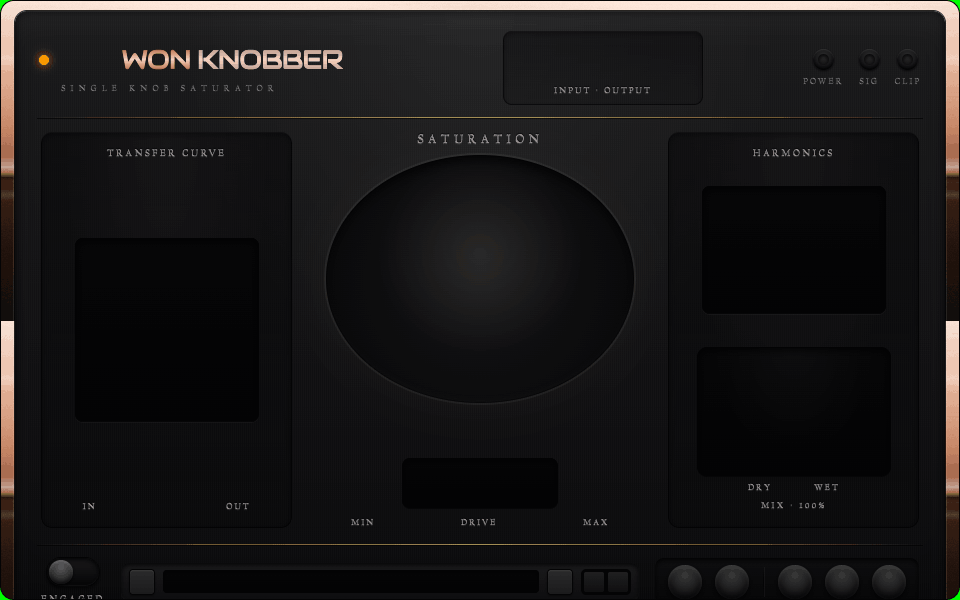
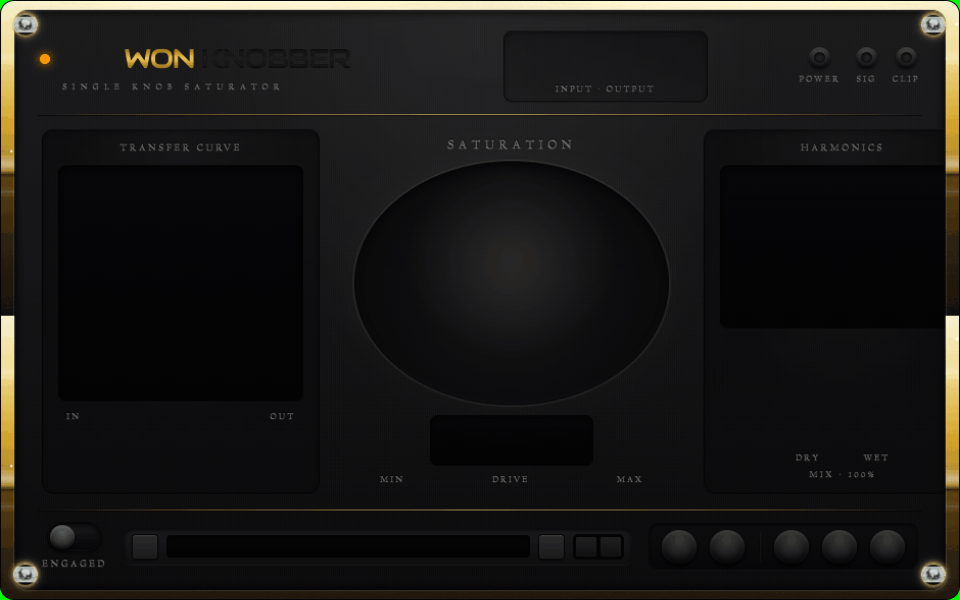
front-parity: richplate re-bake + seated control recesses (#57)
* design: richplate faceplate re-bake (960x600, seated recess bays)

Replaces the flatter plate with the Design/Grok-lane re-bake that carries
deeper machined recesses for the transfer-curve, hero-knob, harmonics, and
footer transport wells — the "seated, not painted-on" doctrine baked into
the plate itself.

* fix(gui): self-drawn recessed well behind TransferCurve + HarmonicBars

Both scopes were pure transparent overlays (only grid/diagonal/curve and amber
bars respectively), relying on a baked recess in the faceplate PNG. In the build
they floated "painted on" the flat plate. Each paint() now draws a recessed well
first (footer-bay material recipe: ~9px rounded rect, vertical 0.44->0.20 black
gradient floor, soft inset top-shadow band, 1px 0.62 black inner stroke, 1px
0.05 white top-lip highlight), then the existing content unchanged on top. No
component geometry, bounds, or anchors changed.

* fix(gui): seat footer transport row in one continuous machined bay

The baked AU/VST3 footer read as loose widgets on a flat plate: the
rocker, preset LCD, A/B, and util buttons each sat in their own little
recess (or none), so the row had nothing unifying it like the rear panel.

Add drawFooterBay() — a single rounded recessed trough spanning the whole
transport row (place(25,519,910,74)), painted before the three footer
draw* routines so every control reads as seated INSIDE one channel.
Material: 10px(scaled) radius, vertical rgba(0,0,0,.44->.20) body, 1px
[…]

diff --git a/Source/gui/FaceplateView.cpp b/Source/gui/FaceplateView.cpp
@@ -94,6 +94,9 @@ void FaceplateView::paint(juce::Graphics& g)
 
     // Phase 2b overlays for preset strip (engraved LED name + chevrons + A/B) and transport tray.
     // Drawn after chassis so text/buttons sit in the photoreal footer recesses.
+    // The footer bay is painted FIRST so the row's controls (and the lit rocker drawn later in
+    // paintOverChildren) all read as seated inside one continuous machined trough.
+    drawFooterBay(g);
     drawPresetStrip(g);
     drawTransportTray(g);
 
@@ -147,6 +150,14 @@ void FaceplateView::resized()
     // exports/faceplate-pro-anchors.json per PHASE2B_DESIGN_SPEC.md §3.
     presetStripBounds = place(121, 537, 518, 38);
     transportBounds = place(655, 531, 264, 48);
+
+    // One continuous machined bay behind the whole transport row (rocker + preset LCD + A/B +
+    // util buttons all seat inside this single trough). Full row width with ~16px horizontal /
+    // ~12px vertical padding around the controls. VISUAL-TUNE POINT: the lower gold rule is baked
+    // into the PNG (its Y is not available in code); top is pinned to y≈519 (~11px under that rule)
+    // and may need a few px of nudge against the baked plate. Spans the bypass_rocker [41,...] left
+    // edge through the util_tray_transport [...,655+264=919] right edge.
+    footerBayBounds = place(25, 519, 910, 74);
 
     // Bypass rocker (footer-left) + small About 'i' affordance (top-right corner).
     bypassRockerBounds = place(41, 531, 64, 49);
@@ -393,13 +404,70 @@ void FaceplateView::cyclePreset(int dir)
         onFactoryPresetSelected(currentPresetIndex);
 }
 
+void FaceplateView::drawFooterBay(juce::Graphics& g)
+{
+    if (footerBayBounds.isEmpty())
+        return;
+
+    // One continuous machined trough for the whole transport row. Drawn before the per-control
+    // faces (preset LCD, A/B slots, util buttons, rocker cap) so they read as seated inside it —
+    // mirrors how the rear panel sits every control in a single well instead of three islands.
+    //
+    // Material recipe (CSS shadows translated to juce::Graphics):
+    //   border-radius: 10px
+    //   background: linear-gradient(rgba(0,0,0,.44) -> rgba(0,0,0,.20))   [top -> bottom]
+    //   inset 0 0 0 1px rgba(0,0,0,.62)                                    [inner 1px stroke]
+    //   inset top lip: 1px rgba(1,1,1,.05)                                 [inner top edge]
+    //   inset 0 2px 9px rgba(0,0,0,.55)                                    [soft top inset shadow]
+    const float s = (float)getHeight() / (float)kRefH; // vertical scale (matches place()'s sy)
+    const auto bay = footerBayBounds.toFloat();
+    const float radius = 10.0f * s; // 10px corner radius, scaled
+
+    // Body: vertical dark gradient (top a touch darker than the bottom) → reads as a sunken trough.
+    juce::ColourGradient body(juce::Colour::fromFloatRGBA(0.0f, 0.0f, 0.0f, 0.44f), bay.getX(), bay.getY(),
+                              juce::Colour::fromFloatRGBA(0.0f, 0.0f, 0.0f, 0.20f), bay.getX(), bay.getBottom(),
+                              false);
+    g.setGradientFill(body);
+    g.fillRoundedRectangle(bay, radius);
+
+    // Soft top inset shadow: a short vertical gradient band hugging the inside of the top edge
+    // (emulates `inset 0 2px 9px` — ~2px offset / ~9px blur). Clipped to the rounded bay so it
+    // never bleeds past the corners.
+    {
+        juce::Graphics::ScopedSaveState clip(g);
+        juce::Path bayPath;
+        bayPath.addRoundedRectangle(bay, radius);
+        g.reduceClipRegion(bayPath);
+
+        const float bandY = bay.getY() + 2.0f * s;       // ~2px inset offset
+        const float bandH = juce::jmax(3.0f, 9.0f * s);  // ~9px blur emulated as band height
+        juce::ColourGradient inset(juce::Colour::fromFloatRGBA(0.0f, 0.0f, 0.0f, 0.55f), bay.getX(), bandY,
+                                   juce::Colour::fromFloatRGBA(0.0f, 0.0f, 0.0f, 0.0f), bay.getX(), bandY + bandH,
+                                   false);
+        g.setGradientFill(inset);
+        g.fillRect(bay.getX(), bandY, bay.getWidth(), bandH);
+    }
+
+    // Inner 1px stroke (the machined edge that catches the trough wall).
+    g.setColour(juce::Colour::fromFloatRGBA(0.0f, 0.0f, 0.0f, 0.62f));
+    g.drawRoundedRectangle(bay.reduced(0.5f), radius, 1.0f);
+
+    // Top lip highlight: a faint 1px bright line just inside the top edge — the bevel where the
+    // plate meets the recess catches light. Inset horizontally by the radius so it tracks the
+    // straight run of the top edge, not the corners.
+    g.setColour(juce::Colour::fromFloatRGBA(1.0f, 1.0f, 1.0f, 0.05f));
+    const float lipY = bay.getY() + 1.0f;
+    g.drawLine(bay.getX() + radius, lipY, bay.getRight() - radius, lipY, 1.0f);
+}
+
 void FaceplateView::drawPresetStrip(juce::Graphics& g)
 {
     if (presetStripBounds.isEmpty())
         return;
 
-    // Draw only the live elements (chevrons, name LED box, A/B) — the chassis PNG already
-    // provides the brushed-metal footer recess/engraving behind these coords.
+    // Draw only the live CONTROL FACES (chevrons, name LED box, A/B slots). The unifying recess is
+    // now drawFooterBay()'s single trough (plus the chassis PNG engraving) — this routine adds NO
+    // strip-wide background fill, so the controls seat inside the one bay (no nested recess).
     const float h = (float)presetStripBounds.getHeight();
 
     // Engraved/LED-style preset name display (recessed dark track + text in gui.md engravedText).
@@ -486,12 +554,14 @@ void FaceplateView::drawTransportTray(juce::Graphics& g)
     if (transportBounds.isEmpty())
         return;
 
+    // No tray-wide background fill here — drawFooterBay() supplies the single recess. Each button
+    // below is just its own control face (the round/util button body), so they seat inside the bay.
     auto drawTBtn = [&](const juce::Rectangle<int>& b, const juce::String& label)
     {
         if (b.isEmpty())
             return;
         const auto bf = b.toFloat().reduced(1.0f);
-        // Recessed button on the metal tray.
+        // Recessed button body on the bay floor (control-level inset; kept).
         g.setColour(juce::Colour(0xff0f0f11).withAlpha(0.82f));
         g.fillRoundedRectangle(bf, 3.0f);
         g.setColour(juce::Colour(0xff9aa0a3).withAlpha(0.35f));
@@ -545,11 +615,21 @@ void FaceplateView::drawBypassRocker(juce::Graphics& g)
 
     const auto b = bypassRockerBounds.toFloat().reduced(2.0f);
 
-    // Recessed metal body (shares the transport-button palette).
-    g.setColour(juce::Colour(0xff0f0f11).withAlpha(0.85f));
+    // Rocker CAP seated inside drawFooterBay()'s trough. Previously this drew its OWN recessed
+    // well (dark fill + light inner stroke) which, sitting inside the new bay, read as a nested
+    // second hole. Flattened to a subtly top-lit raised cap so the rocker reads as a control
+    // resting IN the one bay (the dot + BYPASS label below are unchanged). Shares the
+    // transport-button palette so the row stays cohesive.
+    juce::ColourGradient cap(juce::Colour(0xff2a2c2e), b.getX(), b.getY(),
+                             juce::Colour(0xff161719), b.getX(), b.getBottom(), false);
+    g.setGradientFill(cap);
     g.fillRoundedRectangle(b, 4.0f);
-    g.setColour(juce::Colour(0xff9aa0a3).withAlpha(0.35f));
+    // Thin dark base edge where the cap meets the bay floor (grounds the cap; no recess look).
+    g.setColour(juce::Colour(0xff000000).withAlpha(0.45f));
     g.drawRoundedRectangle(b.reduced(0.5f), 4.0f, 0.7f);
+    // 1px top-lip highlight on the cap's crown (catches light like the bay's own lip).
+    g.setColour(juce::Colour::fromFloatRGBA(1.0f, 1.0f, 1.0f, 0.06f));
+    g.drawLine(b.getX() + 4.0f, b.getY() + 1.0f, b.getRight() - 4.0f, b.getY() + 1.0f, 1.0f);
 
     // Telltale dot: amber glow when BYPASSED (warns the signal is dry); dark when engaged.
     const float dotR = juce::jmin(b.getWidth(), b.getHeight()) * 0.20f;

diff --git a/Source/gui/TransferCurve.cpp b/Source/gui/TransferCurve.cpp
@@ -6,8 +6,45 @@
 
 #include "../dsp/TransferModel.h"
 
+namespace
+{
+    // Self-drawn recessed well — same machined "seated" recipe as the footer bay, so the
+    // scope reads as cut into the brushed plate instead of painted onto a flat faceplate.
+    void drawRecessedWell (juce::Graphics& g, juce::Rectangle<float> well)
+    {
+        constexpr float cornerR = 9.0f;
+
+        // dark interior: vertical gradient, darker at the top lip, lifting toward the floor
+        juce::ColourGradient floor (juce::Colour::fromFloatRGBA (0.0f, 0.0f, 0.0f, 0.44f),
+                                    well.getX(), well.getY(),
+                                    juce::Colour::fromFloatRGBA (0.0f, 0.0f, 0.0f, 0.20f),
+                                    well.getX(), well.getBottom(), false);
+        g.setGradientFill (floor);
+        g.fillRoundedRectangle (well, cornerR);
+
+        // soft inset top-shadow band — light falloff from the upper lip into the interior
+        const float bandH = well.getHeight() * 0.28f;
+        juce::ColourGradient topShade (juce::Colour::fromFloatRGBA (0.0f, 0.0f, 0.0f, 0.55f),
+                                       well.getX(), well.getY(),
+                                       juce::Colour::fromFloatRGBA (0.0f, 0.0f, 0.0f, 0.0f),
+                                       well.getX(), well.getY() + bandH, false);
+        g.setGradientFill (topShade);
+        g.fillRoundedRectangle (well.withHeight (bandH), cornerR);
+
+        // 1px inner stroke — seats the cut edge
+        g.setColour (juce::Colour::fromFloatRGBA (0.0f, 0.0f, 0.0f, 0.62f));
+        g.drawRoundedRectangle (well, cornerR, 1.0f);
+
+        // 1px top lip highlight — the machined chamfer catching light
+        g.setColour (juce::Colour::fromFloatRGBA (1.0f, 1.0f, 1.0f, 0.05f));
+        g.drawHorizontalLine ((int) well.getY(), well.getX() + cornerR, well.getRight() - cornerR);
+    }
+}
+
 void TransferCurve::paint (juce::Graphics& g)
 {
+    drawRecessedWell (g, getLocalBounds().toFloat().reduced (1.0f));
+
     const auto b = getLocalBounds().toFloat().reduced (6.0f);
 
     // faint grid

diff --git a/Source/gui/HarmonicBars.cpp b/Source/gui/HarmonicBars.cpp
@@ -8,8 +8,45 @@
 
 #include <cmath>
 
+namespace
+{
+    // Self-drawn recessed well — same machined "seated" recipe as the footer bay, so the
+    // bars read as cut into the brushed plate instead of painted onto a flat faceplate.
+    void drawRecessedWell (juce::Graphics& g, juce::Rectangle<float> well)
+    {
+        constexpr float cornerR = 9.0f;
+
+        // dark interior: vertical gradient, darker at the top lip, lifting toward the floor
+        juce::ColourGradient floor (juce::Colour::fromFloatRGBA (0.0f, 0.0f, 0.0f, 0.44f),
+                                    well.getX(), well.getY(),
+                                    juce::Colour::fromFloatRGBA (0.0f, 0.0f, 0.0f, 0.20f),
+                                    well.getX(), well.getBottom(), false);
+        g.setGradientFill (floor);
+        g.fillRoundedRectangle (well, cornerR);
+
+        // soft inset top-shadow band — light falloff from the upper lip into the interior
+        const float bandH = well.getHeight() * 0.28f;
+        juce::ColourGradient topShade (juce::Colour::fromFloatRGBA (0.0f, 0.0f, 0.0f, 0.55f),
+                                       well.getX(), well.getY(),
+                                       juce::Colour::fromFloatRGBA (0.0f, 0.0f, 0.0f, 0.0f),
+                                       well.getX(), well.getY() + bandH, false);
+        g.setGradientFill (topShade);
+        g.fillRoundedRectangle (well.withHeight (bandH), cornerR);
+
+        // 1px inner stroke — seats the cut edge
+        g.setColour (juce::Colour::fromFloatRGBA (0.0f, 0.0f, 0.0f, 0.62f));
+        g.drawRoundedRectangle (well, cornerR, 1.0f);
+
+        // 1px top lip highlight — the machined chamfer catching light
+        g.setColour (juce::Colour::fromFloatRGBA (1.0f, 1.0f, 1.0f, 0.05f));
+        g.drawHorizontalLine ((int) well.getY(), well.getX() + cornerR, well.getRight() - cornerR);
+    }
+}
+
 void HarmonicBars::paint (juce::Graphics& g)
 {
+    drawRecessedWell (g, getLocalBounds().toFloat().reduced (1.0f));
+
     constexpr int N = 512;
     constexpr int K = 7;
     constexpr double twoPi = 6.283185307179586;

diff --git a/Source/gui/FaceplateView.h b/Source/gui/FaceplateView.h
@@ -123,12 +123,14 @@ private:
     bool modified{false};     // "modified-from-preset" — drives the ember dot beside the name
 
     // Cached scaled rects (from place() in resized) for drawing the overlays and mouse hit-testing in footer.
+    juce::Rectangle<int> footerBayBounds; // single machined trough spanning the whole transport row
     juce::Rectangle<int> presetStripBounds, transportBounds;
     juce::Rectangle<int> chevLeftBounds, chevRightBounds, aButtonBounds, bButtonBounds;
     juce::Rectangle<int> presetNameBounds; // the engraved LED-style display area inside strip
     juce::Rectangle<int> modifiedDotBounds; // small ember dot + click hit-target, right of the name LED
     juce::Rectangle<int> saveBtnBounds, loadBtnBounds, undoBtnBounds, randBtnBounds;
 
+    void drawFooterBay(juce::Graphics& g); // one continuous recessed bay behind the whole footer row
     void drawPresetStrip(juce::Graphics& g);
     void drawTransportTray(juce::Graphics& g);
     void cyclePreset(int dir); // -1 prev, +1 next; wraps; fires callback
